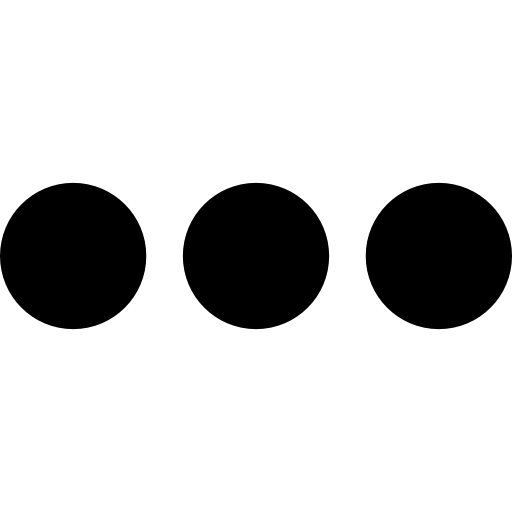
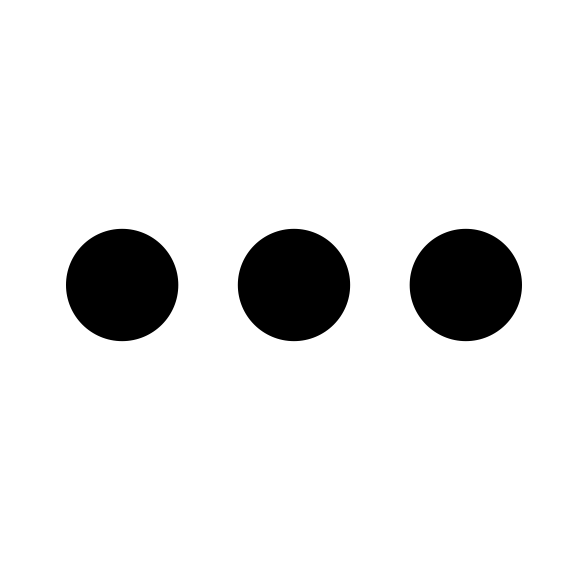
le cambie los iconos a la publicacion

diff --git a/cloneIg.html b/cloneIg.html
@@ -1,5 +1,6 @@
 <!DOCTYPE html>
 <html lang="en">
+
 <head>
     <meta charset="UTF-8">
     <meta name="viewport" content="width=device-width, initial-scale=1.0">
@@ -26,35 +27,35 @@
         </header>
         <nav class="navigatebar">
             <div class="child">
-                <img class= "historia"src="hist1.jpg" alt="">
+                <img class="historia" src="hist1.jpg" alt="">
                 <p>Javito</p>
             </div>
             <div class="child">
-                <img class= "historia" src="hist2.jpg" alt="">
+                <img class="historia" src="hist2.jpg" alt="">
                 <p class="textito">Teto</p>
-    
+
             </div>
             <div class="child">
-                <img class= "historia" src="hist3.jpg" alt="">   
+                <img class="historia" src="hist3.jpg" alt="">
                 <p class="textito">Donald</p>
             </div>
             <div class="child">
-                <img class= "historia" src="hist4.jpg" alt="">  
+                <img class="historia" src="hist4.jpg" alt="">
                 <p class="textito">Piedras</p>
-    
+
             </div>
             <div class="child">
-                <img class= "historia"src="hist5.jpg" alt="">
+                <img class="historia" src="hist5.jpg" alt="">
                 <p class="textito">Reina</p>
             </div>
             <div class="child">
-                <img class= "historia" src="hist6.jpg" alt=""> 
-                <p class="textito">Baggins</p>  
-                
-    
+                <img class="historia" src="hist6.jpg" alt="">
+                <p class="textito">Baggins</p>
+
+
             </div>
             <div class="child">
-                <img class= "historia"src="hist7.jpg" alt="">
+                <img class="historia" src="hist7.jpg" alt="">
                 <p class="textito">Keanu</p>
             </div>
         </nav>
@@ -125,4 +126,5 @@
         </footer>
     </main>
 </body>
+
 </html>

diff --git a/cssPubli.css b/cssPubli.css
@@ -6,6 +6,10 @@
     .publicacion {
         width: 100%;
         height: auto;
+        display: flex;
+        align-content: center;
+        justify-content: center;
+        flex-direction: column;
     }
     /* cabecera */
     
@@ -61,10 +65,11 @@
         display: flex;
         flex-direction: row;
         justify-content: space-between;
+        width: 90%;
+        align-self: center;
     }
     
     .sociales {
-        margin-left: 10px;
         display: flex;
         flex-direction: row;
         justify-content: space-between;
@@ -75,12 +80,13 @@
     .sociales img {
         height: 24px;
         width: auto;
+        margin: 8px;
     }
     
     .guardar {
-        margin-right: 10px;
         height: 24px;
         width: auto;
+        margin: 8px;
     }
     
     .cantMG {
